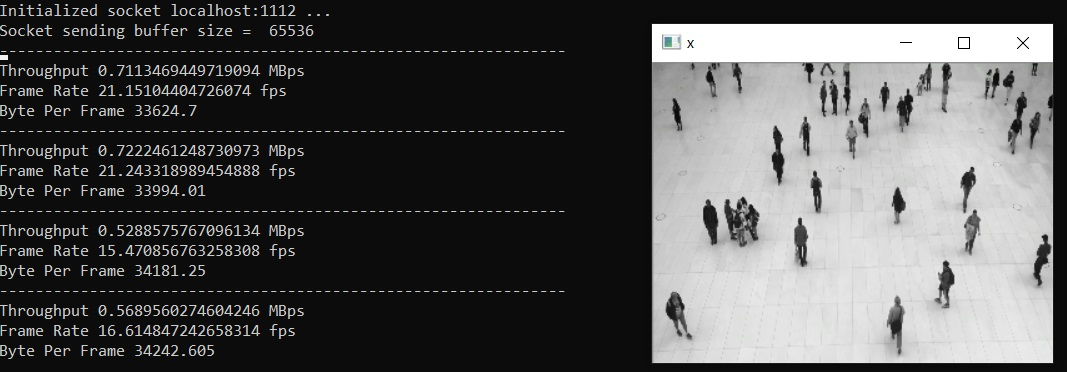
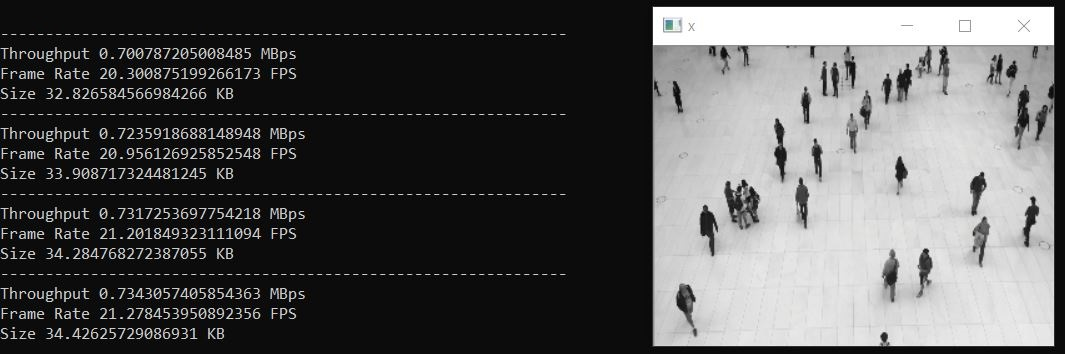
update readme for sender

diff --git a/sender.py b/sender.py
@@ -38,6 +38,8 @@ EXIT = False
 
 NUM_BYTES = 0
 NUM_FRAME = 0
+STATS = [-1.0,-1.0,-1.0]
+GAMMA = 0.01
 
 CAP = None
 FRAME = np.zeros((cfg.image_height,cfg.image_width,3))
@@ -65,7 +67,7 @@ def VideoReader():
 thread  = threading.Thread(target=VideoReader)
 thread.start()
 
-t_start = time.perf_counter() # for counting average fps
+
 while(1):
     t_begin = time.perf_counter()
 
@@ -91,8 +93,14 @@ while(1):
 
     if cfg.verbose in TRUE:
         NUM_FRAME += 1
+        t = (time.perf_counter()-t_begin)
+        STATS[0] = (1.0-GAMMA)*STATS[0] + GAMMA*(1e-6*NUM_BYTES/t) if STATS[0] >= 0.0 else GAMMA*(1e-6*NUM_BYTES/t)
+        STATS[1] = (1.0-GAMMA)*STATS[1] + GAMMA*(1.0/t) if STATS[1] >= 0.0 else GAMMA*(1.0/t)
+        STATS[2] = (1.0-GAMMA)*STATS[2] + GAMMA*(1e-3*NUM_BYTES) if STATS[2] >= 0.0 else GAMMA*(1e-3*NUM_BYTES)
+        NUM_BYTES = 0
         if NUM_FRAME %100 == 0:
             print('---------------------------------------------------------------')
-            print('Throughput',1e-6*NUM_BYTES/(time.perf_counter()-t_start),'MBps')
-            print('Frame Rate', NUM_FRAME/(time.perf_counter()-t_start), 'fps')
-            print('Byte Per Frame',NUM_BYTES/NUM_FRAME)
+            print('Throughput',STATS[0],'MBps')
+            print('Frame Rate', STATS[1], 'FPS')
+            print('Size',STATS[2],'KB')
+            NUM_FRAME = 0

diff --git a/README.md b/README.md
@@ -125,9 +125,9 @@ Note that, you can specify following input arguements:
 * --sock_buff_size : buffer size (default 20480)
 
 After runny sender.py, a video will pop up and command line will displays three figures every 100 frames:
-* Throughput : Amount of data (mega bytes) that is send in one second (mega bytes per second; MBps)
-* Frame Rate (frame per second; fps)
-* Bytes Per Frame : Size of an image/a frame (bytes)
+* Throughput : the average amount of data (mega bytes) that is send in one second (Mega Bytes Per Second; MBps)
+* Frame Rate (Frame Per Second; FPS)
+* Size : Size of an image/a frame (Kilo Bytes; KB)
 
 <div align="center">
 <img src="pictures/cmd_sender.jpg" >
